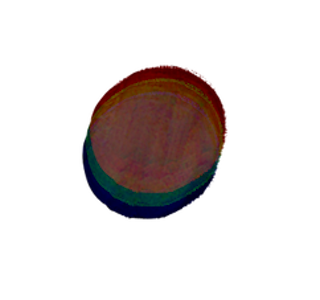
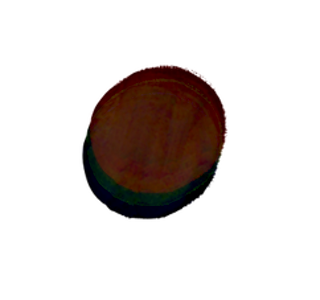
duvtj

Changed region(s): [[0.25, 0.21, 0.7188, 0.75]]

diff --git a/index.html b/index.html
@@ -55,20 +55,22 @@
                     </div>
                     <hr />
                 <section class="hero-bg" style="background-image: url('/images/backgrounds/rio.png');">
-                <h2>links</h2>
+                <h2><span>links</span></h2>
 
                 <div class="three-cols">
                     <!-- 1: Team Projects -->
-                    <div class="image-bg" style="background-image: url('/images/buttonz/button1.png');"> 
-                            <a clas="beige-text" href="work.html">Académic Work</a>
-                    </div>
-                    <!-- 2: Working Papers -->
-                    <div class="image-bg" style="background-image: url('/images/buttonz/button2.png');"> 
-                            <a class="beige-text" href="work.html">Contact</a>
-                    </div>
-                    <!-- 3: Thesis and Fieldwork -->
-                    <div class="image-bg" style="background-image: url('/images/buttonz/button3.png');"> 
-                            <a class="beige-text" href="work.html">Outside Academia</a>
+                    <div class="bio"></div>
+                        <div class="image-bg" style="background-image: url('/images/buttonz/button1.png');"> 
+                                <a clas="beige-text" href="work.html">Académic Work</a>
+                        </div>
+                        <!-- 2: Working Papers -->
+                        <div class="image-bg" style="background-image: url('/images/buttonz/button2.png');"> 
+                                <a class="beige-text" href="work.html">Contact</a>
+                        </div>
+                        <!-- 3: Thesis and Fieldwork -->
+                        <div class="image-bg" style="background-image: url('/images/buttonz/button3.png');"> 
+                                <a class="beige-text" href="work.html">Outside Acadéémia</a>
+                        </div>
                     </div>
                 </div>             
                             

diff --git a/css/style.css b/css/style.css
@@ -75,6 +75,9 @@ p{
  .beige-text {
     color: beige;
  }
+ .flamingo-text{
+    color: beige;
+ }
 
 /*.image-bg {
   background-size: contain;
@@ -208,6 +211,20 @@ summary {
   margin-bottom: 1.25rem;  /* gap between consecutive paragraphs */
 }
 
+.button {
+  padding: 0.5rem 0.75rem;       /* tighter padding so text fits inside small buttons */
+  color: #d4c5a0;                /* beige — adjust to your exact shade */
+}
+
+.button p,
+.button a,
+.button summary {
+  font-size: 0.85rem;            /* smaller than body text */
+  line-height: 1.2;              /* tight line spacing */
+  letter-spacing: 0;             /* no extra tracking */
+  margin: 0;                     /* no gap between paragraphs */
+  color: inherit;                /* inherits the beige from .button */
+}
 footer{
     font-family: "Cormorant", serif;
     /*font-family: 'Times New Roman', Times, serif;*/